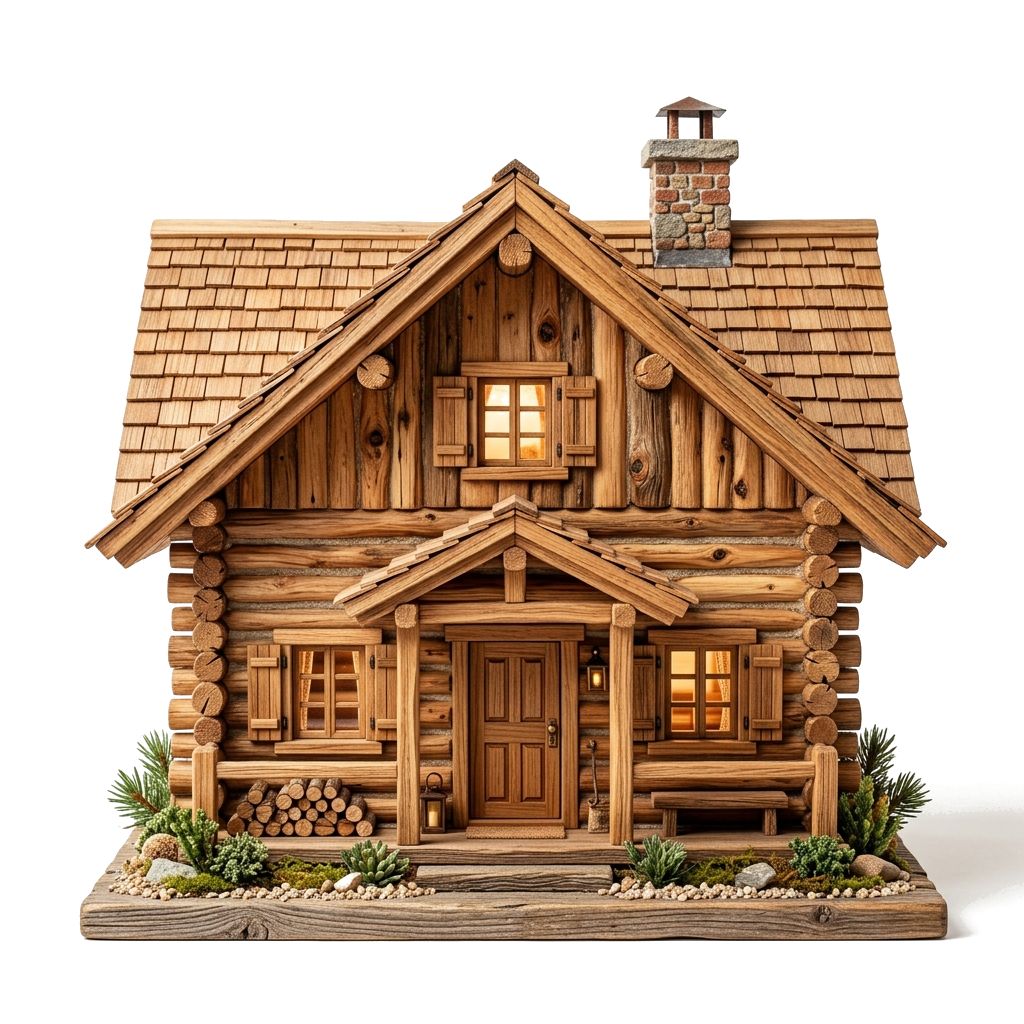
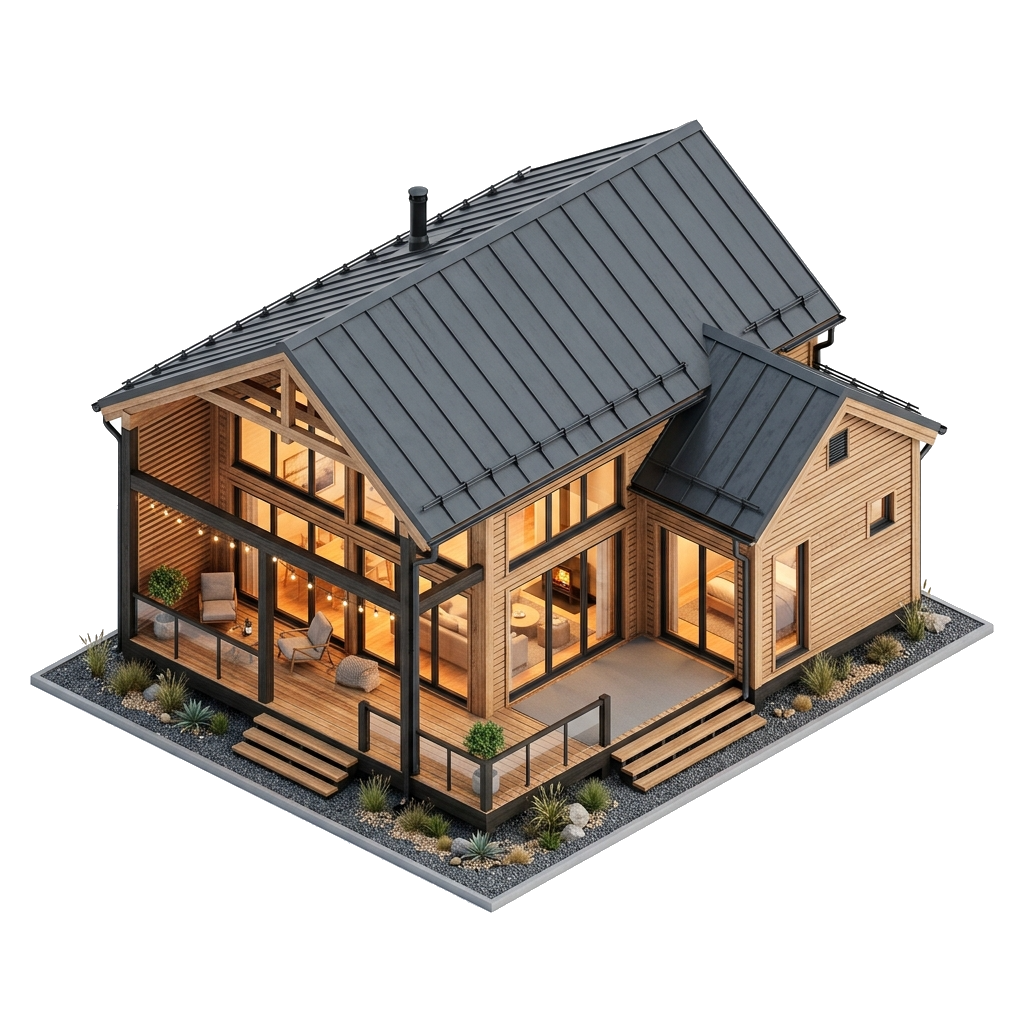
feat(timeline): upgrade rustic dollhouse cottage model to luxury modern architectural timber villa

diff --git a/client/src/components/common/ScrollTimeline.css b/client/src/components/common/ScrollTimeline.css
@@ -501,7 +501,7 @@
 
 .transformed-cottage-wrap {
   position: absolute;
-  inset: -12px;
+  inset: -16px;
   display: flex;
   align-items: center;
   justify-content: center;
@@ -513,7 +513,7 @@
 
 @media (min-width: 768px) {
   .transformed-cottage-wrap {
-    inset: -16px;
+    inset: -22px;
   }
 }
 
@@ -536,8 +536,7 @@
   object-fit: contain;
   user-select: none;
   -webkit-user-drag: none;
-  filter: drop-shadow(0 10px 14px rgba(0, 0, 0, 0.32))
-          drop-shadow(0 2px 6px rgba(255, 75, 24, 0.4));
+  filter: drop-shadow(0 10px 18px rgba(0, 0, 0, 0.22));
   transition: transform 0.3s ease;
 }
 
@@ -545,13 +544,12 @@
   0% {
     opacity: 0;
     transform: translateY(14px) scale(0.4) rotate(4deg);
-    filter: drop-shadow(0 2px 4px rgba(0, 0, 0, 0.2));
+    filter: drop-shadow(0 2px 4px rgba(0, 0, 0, 0.15));
   }
   45% {
     opacity: 1;
-    transform: translateY(-5px) scale(1.16) rotate(-2deg);
-    filter: drop-shadow(0 14px 20px rgba(0, 0, 0, 0.38))
-            drop-shadow(0 0 16px rgba(255, 140, 20, 0.6));
+    transform: translateY(-5px) scale(1.14) rotate(-2deg);
+    filter: drop-shadow(0 14px 20px rgba(0, 0, 0, 0.28));
   }
   75% {
     transform: translateY(2px) scale(0.96) rotate(1deg);
@@ -559,8 +557,7 @@
   100% {
     opacity: 1;
     transform: translateY(0) scale(1) rotate(0deg);
-    filter: drop-shadow(0 10px 14px rgba(0, 0, 0, 0.32))
-            drop-shadow(0 2px 6px rgba(255, 75, 24, 0.4));
+    filter: drop-shadow(0 10px 18px rgba(0, 0, 0, 0.22));
   }
 }
 
@@ -646,8 +643,8 @@
 /* Chimney Smoke on Built Cottage */
 .cottage-chimney-smoke {
   position: absolute;
-  top: 1px;
-  right: 21%;
+  top: 13%;
+  left: 40.5%;
   width: 10px;
   height: 12px;
   pointer-events: none;
